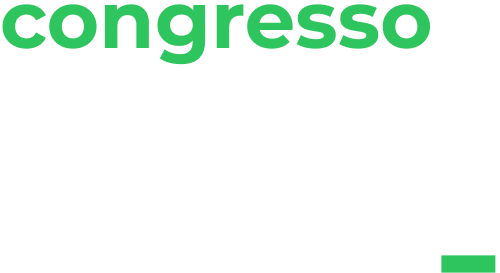
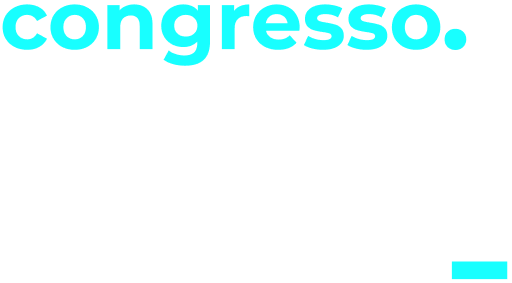
ok

Changed region(s): [[0.0, 0.0, 0.93, 0.2344], [0.87, 0.9084, 1.0, 1.0]]

diff --git a/index.html b/index.html
@@ -47,7 +47,7 @@
   <!-- End Facebook Pixel Code -->
 </head>
 
-<body style="background-color: black !important;">
+<body style="background-color: #000000 !important;">
 
   <div class="section no-pad-bot" id="index-banner" style="padding-top:0% !important; height: auto !important; width:
   100% !important;">
@@ -60,8 +60,8 @@
         <p class="white-text" style="font-weight: 500;">#vivadoseujeito</p>
         <img src="congresso.png" style="max-width: 100% !important;" alt="">
         <p class="header light white-text" style="margin-top: 5px !important; font-size: 20px !important; font-weight: 600;">13 a 19 de Dezembro. Evento Online e Gratuito.<br></p>
-        <p class="white-text" style="font-weight: 400 !important; font-size: 20px !important;">30 nômades digitais brasileiros vão revelar seus segredos para trabalhar e viajar ao mesmo tempo o quanto quiser. Serão 30 palestras exclusivas onde você vai aprender o que é necessário para sair do zero e começar 2022, pronto(a) para decolar, fazendo o que ama! Siga <a href="https://www.instagram.com/nomadedigitalbrazil" style="color: #2FC55E !important;">@nomadedigitalbrazil</a> no instagram. Em breve vamos divulgar os palestrantes e algumas novidades!</p>
-        <a style="background-color: #2FC55E; margin-bottom: 100px;" href="https://nomadedigitalbrazilc.activehosted.com/f/11" class="btn-large">Eu quero participar!</a>
+        <p class="white-text" style="font-weight: 400 !important; font-size: 20px !important;">30 nômades digitais brasileiros vão revelar seus segredos para trabalhar e viajar ao mesmo tempo o quanto quiser. Serão 30 palestras exclusivas onde você vai aprender o que é necessário para sair do zero e começar 2022, pronto(a) para decolar, fazendo o que ama! Siga <a href="https://www.instagram.com/nomadedigitalbrazil" style="color: #18FFFF !important;">@nomadedigitalbrazil</a> no instagram. Em breve vamos divulgar os palestrantes e algumas novidades!</p>
+        <a style="background-color: #18FFFF; margin-bottom: 100px; color: black !important;" href="https://nomadedigitalbrazilc.activehosted.com/f/11" class="btn-large">Eu quero participar!</a>
       </div>
     </div>
 
